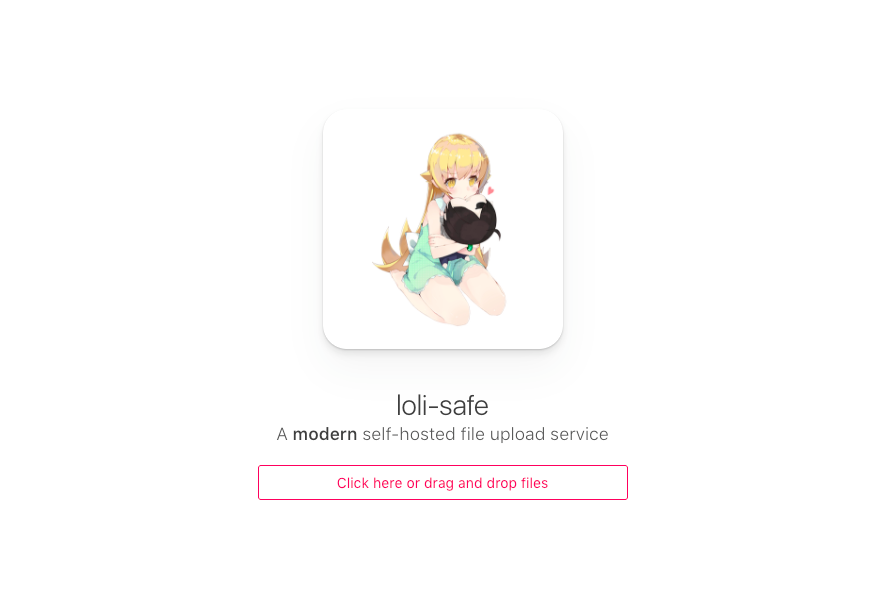
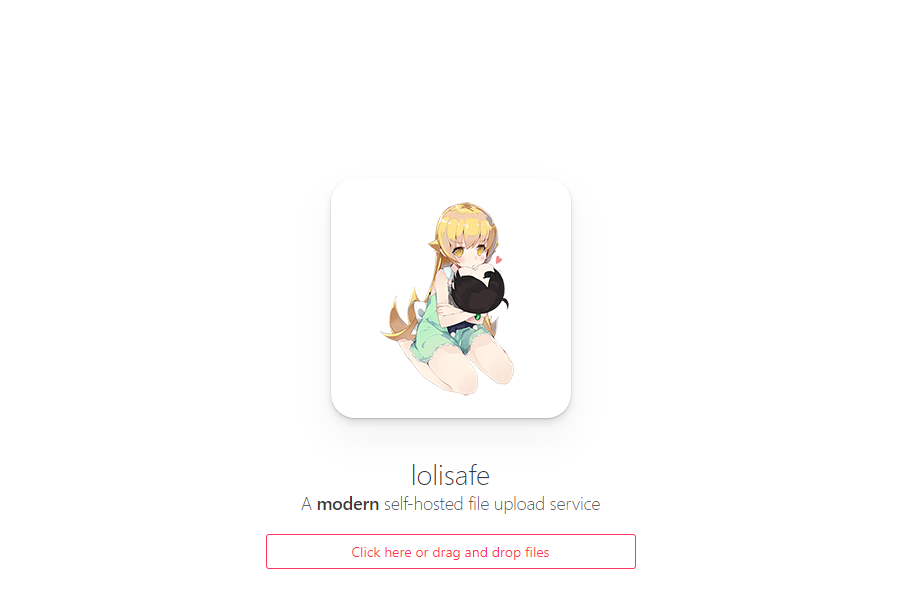
Change all occurences of loli-safe to lolisafe
Saw that repository was renamed, links were changed, but a lot of files of lolisafe were unchanged. So I followed the links and changed what seemed safe to change. Which turned out to be all occurences. 

Also, bumped the copyright.

Changed region(s): [[0.3041, 0.2107, 0.6993, 0.9331]]

diff --git a/pages/home.html b/pages/home.html
@@ -82,7 +82,7 @@
 
 					<h3 class="subtitle"><a href="/auth" id="loginLinkText"></a></h3>
 					<h3 id="links">
-						<a href="https://github.com/kanadeko/loli-safe" target="_blank" class="is-danger">View on GitHub</a><span>|</span><a id="ShareX" href="https://lolisafe.moe/sharex.txt">ShareX</a><span>|</span><a href="https://chrome.google.com/webstore/detail/loli-safe-uploader/enkkmplljfjppcdaancckgilmgoiofnj" target="_blank" class="is-danger">Chrome extension</a><span>|</span><a href="/faq" class="is-danger">FAQ</a><span>|</span><a href="/auth" target="_blank" class="is-danger">Dashboard</a>
+						<a href="https://github.com/WeebDev/lolisafe" target="_blank" class="is-danger">View on GitHub</a><span>|</span><a id="ShareX" href="https://lolisafe.moe/sharex.txt">ShareX</a><span>|</span><a href="https://chrome.google.com/webstore/detail/lolisafe-uploader/enkkmplljfjppcdaancckgilmgoiofnj" target="_blank" class="is-danger">Chrome extension</a><span>|</span><a href="/faq" class="is-danger">FAQ</a><span>|</span><a href="/auth" target="_blank" class="is-danger">Dashboard</a>
 					</h3>
 
 				</div>

diff --git a/pages/faq.html b/pages/faq.html
@@ -64,7 +64,7 @@
 					<h2 class='subtitle'>What are albums?</h2>
 					<article class="message">
 						<div class="message-body">
-							Albums are a simple way of sorting uploads together. Right now you can create albums through the dashboard and use them only with <a target="_blank" href="https://chrome.google.com/webstore/detail/loli-safe-uploader/enkkmplljfjppcdaancckgilmgoiofnj">our chrome extension</a> which will enable you to <strong>right click -> send to lolisafe</strong> or to a desired album if you have any.
+							Albums are a simple way of sorting uploads together. Right now you can create albums through the dashboard and use them only with <a target="_blank" href="https://chrome.google.com/webstore/detail/lolisafe-uploader/enkkmplljfjppcdaancckgilmgoiofnj">our chrome extension</a> which will enable you to <strong>right click -> send to lolisafe</strong> or to a desired album if you have any.
 						</div>
 					</article>
 

diff --git a/config.sample.js b/config.sample.js
@@ -3,7 +3,7 @@ module.exports = {
 	/*
 		If set to true the user will need to specify the auto-generated token
 		on each API call, meaning random strangers wont be able to use the service
-		unless they have the token loli-safe provides you with.
+		unless they have the token lolisafe provides you with.
 		If it's set to false, then upload will be public for anyone to use.
 	*/
 	private: true,

diff --git a/pages/error/404.html b/pages/error/404.html
@@ -1,7 +1,7 @@
 <!DOCTYPE html>
 <html>
 	<head>
-		<title>loli-safe</title>
+		<title>lolisafe</title>
 
 		<link href='//fonts.googleapis.com/css?family=Lato:100' rel='stylesheet' type='text/css'>
 

diff --git a/pages/error/500.html b/pages/error/500.html
@@ -1,7 +1,7 @@
 <!DOCTYPE html>
 <html>
 	<head>
-		<title>loli-safe</title>
+		<title>lolisafe</title>
 
 		<link href='//fonts.googleapis.com/css?family=Lato:100' rel='stylesheet' type='text/css'>
 

diff --git a/README.md b/README.md
@@ -1,4 +1,4 @@
-![loli-safe](https://a.safe.moe/jcutlz.png)
+![lolisafe](https://lolisafe.moe/llZx30xz.png)
 [![GitHub license](https://img.shields.io/badge/license-MIT-blue.svg?style=flat-square)](https://raw.githubusercontent.com/kanadeko/Kuro/master/LICENSE)
 [![Chat / Support](https://img.shields.io/badge/Chat%20%2F%20Support-discord-7289DA.svg?style=flat-square)](https://discord.gg/5g6vgwn)
 
@@ -39,7 +39,7 @@ Which one you use is ultimately up to you. Either way, I've provided a sample co
 
 If you set `enableUserAccounts: true`, people will be able to create accounts on the service to keep track of their uploaded files and create albums to upload stuff to, pretty much like imgur does, but only through the API. Every user account has a token that the user can use to upload stuff through the API. You can find this token on the section called `Change your token` on the administration dashboard, and if it gets leaked or compromised you can renew it by clicking the button titled `Request new token`.
 
-## Using loli-safe
+## Using lolisafe
 Once the service starts you can start hitting the upload endpoint at `/api/upload` with any file. If you're using the frontend to do so then you are pretty much set, but if using the API to upload make sure the form name is set to `files[]` and the form type to `multipart/form-data`. If the service is running in private mode, dont forget to send a header of type `token: YOUR-CLIENT-TOKEN` to validate the request.
 
 A sample of the returning json from the endpoint can be seen below:
@@ -51,11 +51,11 @@ A sample of the returning json from the endpoint can be seen below:
 }
 ```
 
-To make it easier and better than any other service, you can download [our Chrome extension](https://chrome.google.com/webstore/detail/loli-safe-uploader/enkkmplljfjppcdaancckgilmgoiofnj) that will let you configure your hostname and tokens, so that you can simply `right click` -> `send to loli-safe` to any image/audio/video file on the web.
+To make it easier and better than any other service, you can download [our Chrome extension](https://chrome.google.com/webstore/detail/lolisafe-uploader/enkkmplljfjppcdaancckgilmgoiofnj) that will let you configure your hostname and tokens, so that you can simply `right click` ->  `loli-safe` -> `send to safe` to any image/audio/video file on the web.
 
-Because of how nodejs apps work, if you want it attached to a domain name you will need to make a reverse proxy for it. Here is a tutorial [on how to do this with nginx](https://www.digitalocean.com/community/tutorials/how-to-set-up-a-node-js-application-for-production-on-ubuntu-16-04). Keep in mind that this is only a requirement if you want to access your loli-safe service by using a domain name (ex: https://i.kanacchi.moe), otherwise you can use the service just fine by accessing it from your server's IP.
+Because of how nodejs apps work, if you want it attached to a domain name you will need to make a reverse proxy for it. Here is a tutorial [on how to do this with nginx](https://www.digitalocean.com/community/tutorials/how-to-set-up-a-node-js-application-for-production-on-ubuntu-16-04). Keep in mind that this is only a requirement if you want to access your lolisafe service by using a domain name, otherwise you can use the service just fine by accessing it from your server's IP.
 
-## Sites using loli-safe
+## Sites using lolisafe
 - [lolisafe.moe](https://lolisafe.moe): A small safe worth protecting.
 - [safe.moe](https://safe.moe): The world's most ~~un~~safe pomf clone
 - [updx.xyz](http://updx.xyz): A shitty clone. ~~At least the files are more secure!~~
@@ -64,7 +64,7 @@ Because of how nodejs apps work, if you want it attached to a domain name you wi
 
 ## Author
 
-**lolisafe** © [Pitu](https://github.com/Pitu), Released under the [MIT](https://github.com/WeebDev/loli-safe/blob/master/LICENSE) License.<br>
+**lolisafe** © [Pitu](https://github.com/Pitu), Released under the [MIT](https://github.com/WeebDev/lolisafe/blob/master/LICENSE) License.<br>
 Authored and maintained by Pitu.
 
 > [lolisafe.moe](https://lolisafe.moe) · GitHub [@Pitu](https://github.com/Pitu)
